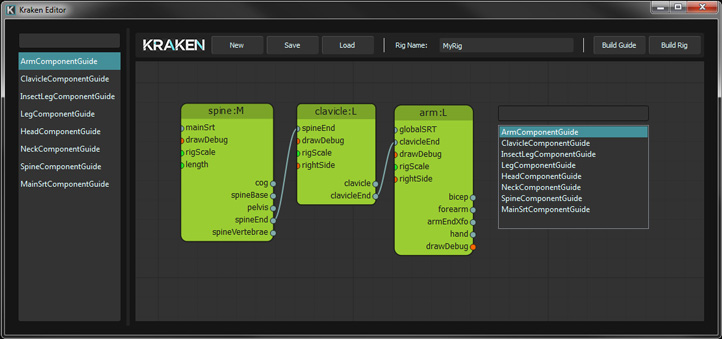
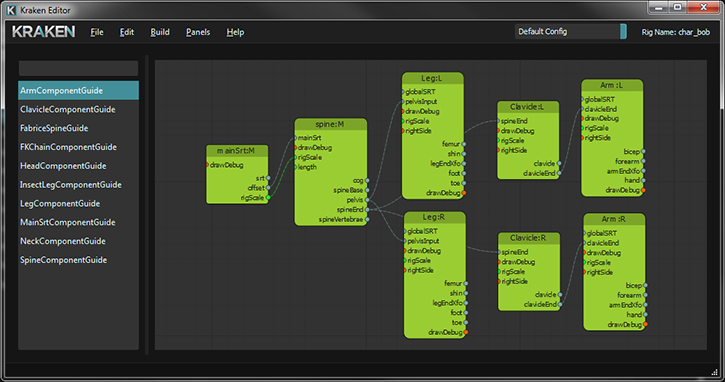
Updating with latest UI changes.

diff --git a/source/user_interface.rst b/source/user_interface.rst
@@ -1,14 +1,17 @@
-==============
+##############
 User Interface
-==============
+##############
 
 Kraken comes with a nodal inteface that allows for quickly prototyping rigs and re-using the configuration at a later time.
 
 .. image:: /images/Kraken_UI.jpg
 
+|
 
-UI Sections
-***********
+.. contents:: Table of Contents
+   :local:
+
+|
 
 Component Library
 =================
@@ -25,21 +28,55 @@ Graph
 The graph is where you instance components as nodes and create connections. You can only make connections between component ports which are of the same type. Only Vec3's will connect to Vec3 ports for example. You can click and drag from a label or port to another port to connect it.
 |
 
-Graph Toolbar
-=============
-The graph toolbar is where you can interact with the current graph.
+
+Menu Bar
+========
+The menu bar provides items to easily interact with the graph.
+|
+
+File Menu
+---------
+|
 
 New
    Creates a new graph flushing the current one.
 
 Save
-   Saves the current graph to a ``*.krig`` file at the specified location.
+   Saves the current graph to a ``*.krg`` file at the specified location.
 
 Load
-   Load a ``*.krig`` file into the graph as a new graph. The current graph will be cleared.
+   Load a ``*.krg`` file into the graph as a new graph. The current graph will be cleared.
+
+Close
+   Closes the UI and asks to save the current rig.
+
+
+Edit Menu
+---------
+|
+
+Copy
+   Copies the selected nodes in the graph.
+
+Paste
+   Pastes a copy of the components.
+
+Paste Connected
+   Pastes a copy of the components and keeps connections.
+
+Paste Mirrored
+   Pastes a mirroried copy of the components.
+
+Paste Mirrored Connected
+   Pastes a mirroried copy of the components and keeps connections.
 
 Rig Name
-   The name of the rig you are going to build. This will be the name that you will see on the top container node and layers.
+   Allows you to edit the rig name via a modal input box.
+
+
+Build Menu
+----------
+|
 
 Build Guide
    Builds the guide for the current graph. Each component will have it's guide structure built. From there you can manipulate the guide to match the proportions of your character.
@@ -49,22 +86,42 @@ Build Rig
 
    If you do have a guide in your scene it will synchronize the values from the scene back into the graph before building.
 
+
+Panels Menu
+-----------
+|
+
+Component Library
+   Toggles the component library to be visible.
+
+
+Help Menu
+---------
+|
+Online Help
+   Opens a browser page to the Kraken web page.
+
 |
 
 Keyboard Commands
-*****************
+=================
 |
 
 ============ =========
 Key Combo    Function
 ============ =========
 Ctrl+N       New Graph (Clears current graph)
+Ctrl+S       Save Graph
+Ctrl+L       Load Graph (Clears current graph)
 Ctrl+W       Closes the Interface
-` (Tilde)    Opens the contextual node list over the graph
-Ctrl+Tab     Toggles the Component Library
 Ctrl+C       Copy Selected Nodes
 Ctrl+V       Paste Copied Nodes
 Ctrl+Shift+V Paste Copied Nodes with connections
+Ctrl+G       Builds the Guide Rig
+Ctrl+B       Builds the Rig
+Ctrl+H       Opens the Kraken Page
+Ctrl+Tab     Toggles the Component Library
+` (Tilde)    Opens the contextual node list over the graph
 ============ =========
 
 

diff --git a/source/installation.rst b/source/installation.rst
@@ -1,16 +1,22 @@
-============
+############
 Installation
-============
+############
 
 .. contents::
    :local:
 
 |
 
+Prerequisites
+*************
+* Python 2.7.x
+* PySide 1.2.2
+
+|
+
 Download
 ********
-Get the latest version of Kraken here:
-`Kraken Downloads <http://fabric-engine.github.io/Kraken/#download>`_
+https://github.com/fabric-engine/Kraken
 
 |
 
@@ -21,10 +27,10 @@ Environment Variables
 .. glossary::
 
    KRAKEN_DIR
-      Base directory where Kraken is installed
+      Base directory where Kraken is installed.
 
-   KRAKEN_COMPONENTS
-      Root python paths to custom components
+   KRAKEN_PATHS
+      Paths to custom components.
 
    KRAKEN_LOAD_MENU
       If set to False, the Kraken Menu will not load in the DCC's. However the commands will still be registered.
@@ -45,13 +51,13 @@ Windows Standalone
 
    set FABRIC_DIR=D:\fabric\FabricEngine-1.15.2-Windows-x86_64
 
-   set KRAKEN_PATH=D:\dev\kraken
+   set KRAKEN_DIR=D:\dev\kraken
 
    set PATH=%FABRIC_DIR%\bin;%PATH%
 
-   set FABRIC_EXTS_PATH=%FABRIC_DIR%\Exts;%FABRIC_EXTS_PATH%;%KRAKEN_PATH%\KLExts;
+   set FABRIC_EXTS_PATH=%FABRIC_DIR%\Exts;%FABRIC_EXTS_PATH%;%KRAKEN_DIR%\KLExts;
 
-   set PYTHONPATH=%PYTHONPATH%;%FABRIC_DIR%\Python\2.7;%KRAKEN_PATH%\Python;
+   set PYTHONPATH=%PYTHONPATH%;%FABRIC_DIR%\Python\2.7;%KRAKEN_DIR%\Python;
 
 
    cd /d D:\dev\kraken\Python\kraken
@@ -69,13 +75,13 @@ Windows Softimage 2015
 
    set FABRIC_DIR=D:\fabric\FabricEngine-1.15.2-Windows-x86_64
 
-   set KRAKEN_PATH=D:\dev\kraken
+   set KRAKEN_DIR=D:\dev\kraken
 
    set PATH=%FABRIC_DIR%\bin;%PATH%
 
-   set FABRIC_EXTS_PATH=%FABRIC_DIR%\Exts;%FABRIC_EXTS_PATH%;%KRAKEN_PATH%\KLExts;
+   set FABRIC_EXTS_PATH=%FABRIC_DIR%\Exts;%FABRIC_EXTS_PATH%;%KRAKEN_DIR%\KLExts;
 
-   set PYTHONPATH=%PYTHONPATH%;%FABRIC_DIR%\Python\2.7;%KRAKEN_PATH%\Python;
+   set PYTHONPATH=%PYTHONPATH%;%FABRIC_DIR%\Python\2.7;%KRAKEN_DIR%\Python;
 
 
    call "C:\Program Files\Autodesk\Softimage 2015 SP1\Application\bin\XSI.bat"
@@ -93,16 +99,16 @@ Windows Maya 2015
 
    set FABRIC_DIR=D:\fabric\FabricEngine-1.15.2-Windows-x86_64
 
-   set KRAKEN_PATH=D:\dev\kraken
+   set KRAKEN_DIR=D:\dev\kraken
 
    set PATH=%FABRIC_DIR%\bin;%PATH%
 
-   set FABRIC_EXTS_PATH=%FABRIC_DIR%\Exts;%FABRIC_EXTS_PATH%;%KRAKEN_PATH%\KLExts;
+   set FABRIC_EXTS_PATH=%FABRIC_DIR%\Exts;%FABRIC_EXTS_PATH%;%KRAKEN_DIR%\KLExts;
 
-   set PYTHONPATH=%PYTHONPATH%;%FABRIC_DIR%\Python\2.7;%KRAKEN_PATH%\Python;
+   set PYTHONPATH=%PYTHONPATH%;%FABRIC_DIR%\Python\2.7;%KRAKEN_DIR%\Python;
 
 
-   set MAYA_MODULE_PATH=%FABRIC_DIR%\SpliceIntegrations\FabricSpliceMaya2015SP2;%KRAKEN_PATH%\DCCIntegrations\maya;
+   set MAYA_MODULE_PATH=%FABRIC_DIR%\SpliceIntegrations\FabricSpliceMaya2015SP2;%KRAKEN_DIR%\DCCIntegrations\maya;
 
    start /d "C:\Program Files\Autodesk\Maya2015\bin" maya.exe
 

diff --git a/source/integrations/softimage.rst b/source/integrations/softimage.rst
@@ -8,8 +8,13 @@ The Softimage integration is composed of the Kraken plug-in for Softimage but al
 Sections
 ========
 
-.. contents:: Usage Documentation
+.. contents::
    :local:
+
+
+PyQtForSoftimage
+----------------
+http://www.steven-caron.com/downloads/tools/PyQtForSoftimage_beta5.xsiaddon
 
 
 Softimage Workgroup & Plug-in
